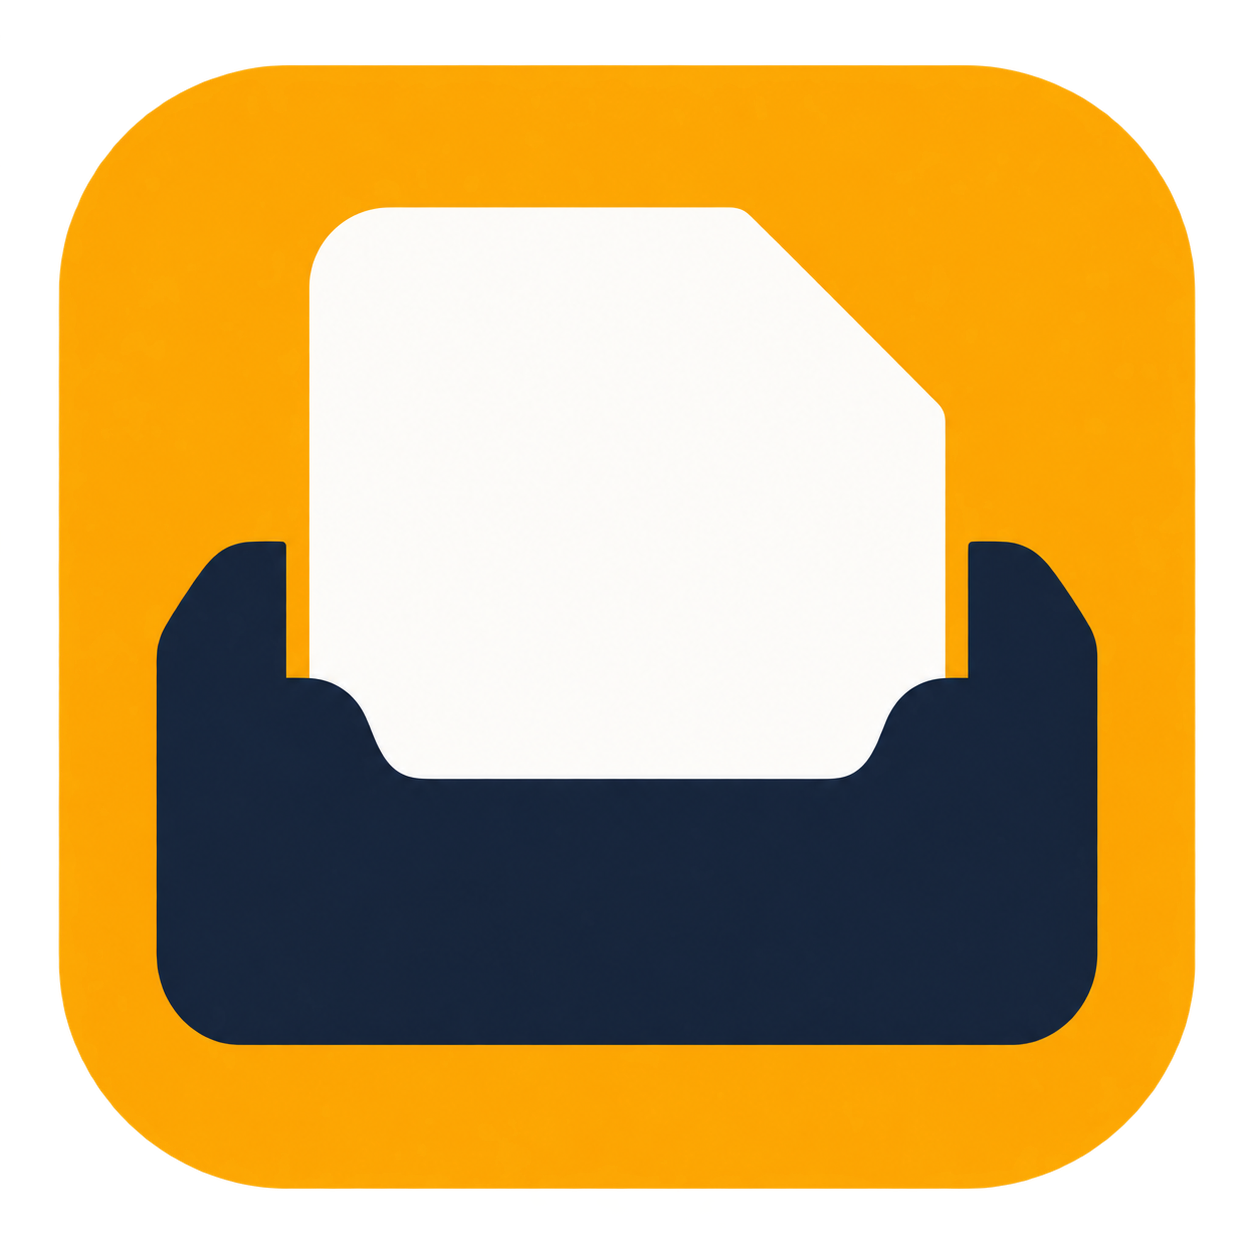
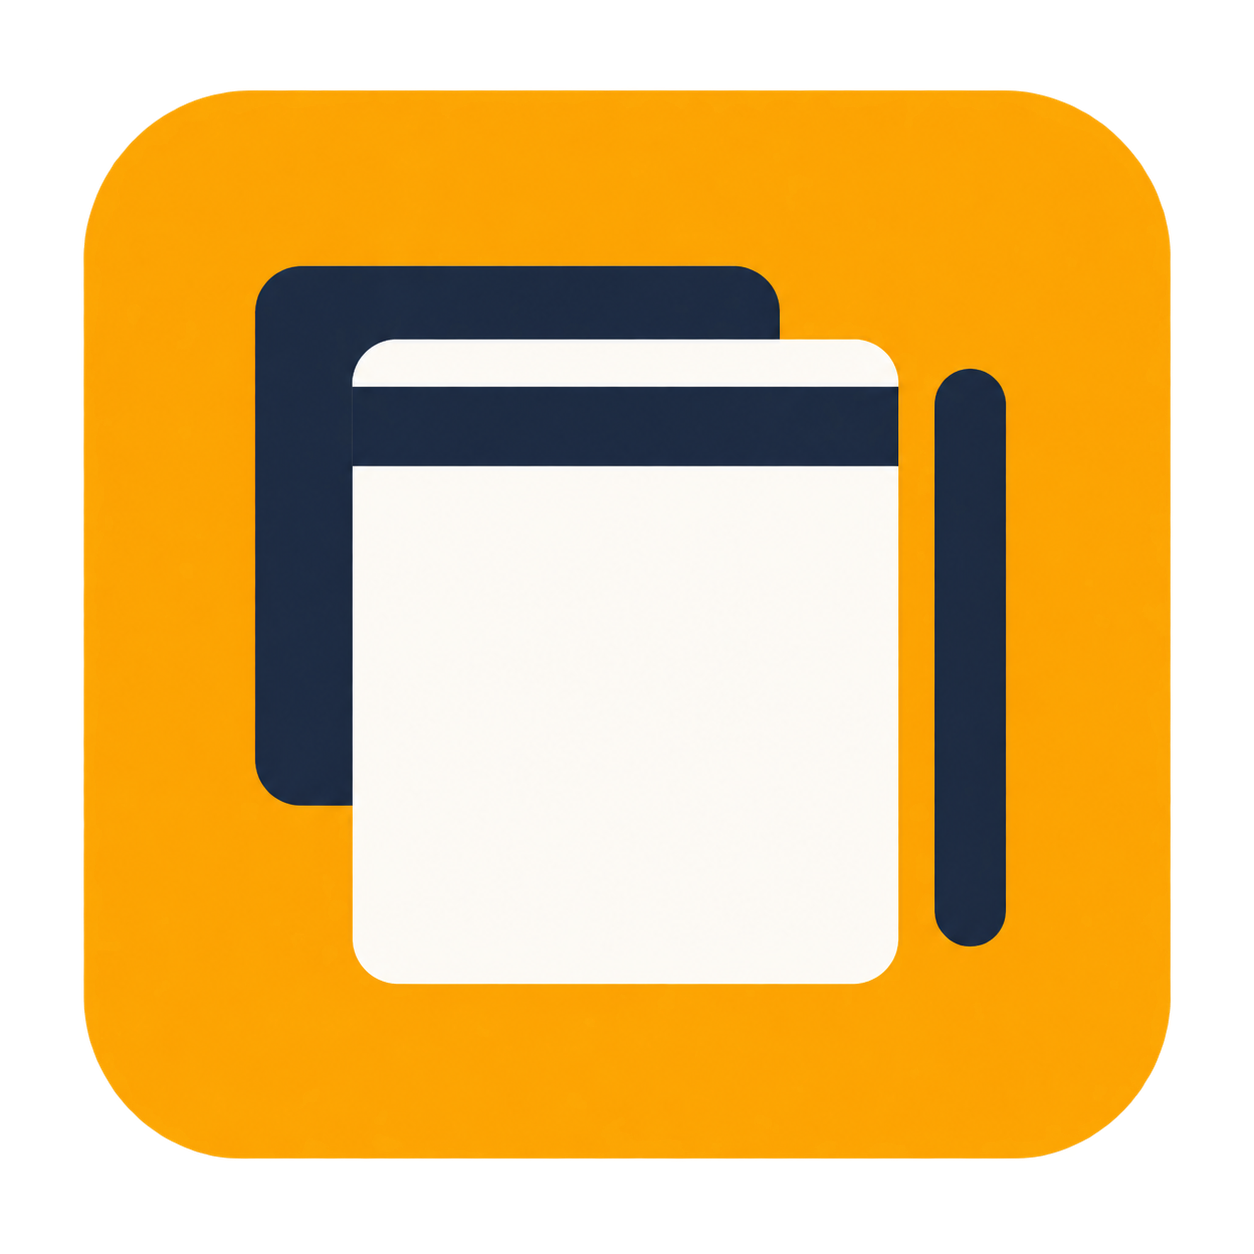
chore: release StaySide 1.73.0
Make suspended-tab system notifications optional, request or revoke permission from settings, and retain toolbar badge feedback without notification access. Refresh the approved browser-window and side-panel icon across runtime assets and document the permission behavior.

Validation: reused the linked conversation results for typecheck, suspended-tab regression, 12 browser scenarios, production/store builds, and icon asset checks. Rebuilt the 1.73.0 production ZIP and passed release:check (46 files) and git diff --check without rerunning full regression. Native permission prompts, retained grants on upgrade, and system notification display remain for existing Chrome/Edge acceptance.

diff --git a/tests/suspended-tabs.test.js b/tests/suspended-tabs.test.js
@@ -64,6 +64,8 @@ function worker() {
   const menus = [];
   const commands = [];
   const notifications = [];
+  const notificationAttempts = [];
+  const permissionRequests = [];
   const badges = [];
   const tabs = [clone(frozen)];
   const injections = [];
@@ -74,6 +76,8 @@ function worker() {
   let failCreate = false;
   let failItemWrite = false;
   let failNotification = false;
+  let notificationPermission = true;
+  let failPermissionCheck = false;
   const event = () => ({ addListener() {} });
   const chrome = {
     storage: { local: storage(local), session: storage(session), onChanged: event() },
@@ -90,7 +94,16 @@ function worker() {
     },
     action: { async setBadgeText({ text }) { badges.push(text); }, async setBadgeBackgroundColor() {}, async setTitle() {} },
     commands: { onCommand: { addListener(fn) { commands.push(fn); } } },
+    permissions: {
+      async contains(request) {
+        assert.deepEqual(clone(request), { permissions: ["notifications"] });
+        if (failPermissionCheck) throw new Error("PERMISSION_CHECK_FAILED");
+        return notificationPermission;
+      },
+      async request(request) { permissionRequests.push(clone(request)); return false; }
+    },
     notifications: { async create(id, options) {
+      notificationAttempts.push({ id, ...clone(options) });
       if (failNotification) throw new Error("NOTIFICATIONS_DISABLED");
       notifications.push({ id, ...clone(options) });
       return id;
@@ -118,10 +131,12 @@ function worker() {
     }
     reject(new Error(`UNHANDLED: ${message.type}`));
   });
-  return { ctx, local, session, tabs, injections, created, updates, fetches, send, menus, commands, notifications, badges,
+  return { ctx, local, session, tabs, injections, created, updates, fetches, send, menus, commands, notifications, notificationAttempts, permissionRequests, badges,
     offline() { fetchMode = "fail"; }, failCreate() { failCreate = true; },
     failWrites() { failItemWrite = true; }, allowWrites() { failItemWrite = false; },
-    disableNotifications() { failNotification = true; } };
+    disableNotifications() { failNotification = true; },
+    setNotificationPermission(granted) { notificationPermission = granted; },
+    failPermissionCheck() { failPermissionCheck = true; } };
 }
 
 async function until(check, label) {
@@ -243,7 +258,8 @@ async function until(check, label) {
   assert.equal(routes.updates.length, 0, "收集路由网址不改变任何标签页");
 
   const manifest = JSON.parse(readFileSync(path.resolve(__dirname, "../manifest.json"), "utf8"));
-  assert.ok(manifest.permissions.includes("notifications"), "构建清单声明系统通知权限");
+  assert.ok(!manifest.permissions.includes("notifications"), "系统通知不再是安装必需权限");
+  assert.ok(manifest.optional_permissions.includes("notifications"), "构建清单声明可选系统通知权限");
   assert.ok(readFileSync(sourcePath("icon128.png")).length, "系统通知图标存在");
 
   for (const language of ["zh-CN", "en"]) {
@@ -295,6 +311,31 @@ async function until(check, label) {
     assert.match(feedback.notifications.at(-1).message, /操作失败：.*SAVE_FAILED/);
     assert.equal(feedback.badges.at(-1), "!");
   }
+
+  const ungranted = worker();
+  ungranted.setNotificationPermission(false);
+  assert.equal((await ungranted.send({ type: "QUICK_SAVE_TAB", tabId: 1 })).ok, true);
+  assert.equal(ungranted.local.laterOnItems.length, 1, "未授权仍成功收藏");
+  assert.equal(ungranted.badges.at(-1), "✓");
+  ungranted.tabs[0].url = frozenUrl("https://example.com/ungranted-failure");
+  ungranted.failWrites();
+  assert.equal((await ungranted.send({ type: "QUICK_SAVE_TAB", tabId: 1 })).ok, false);
+  assert.equal(ungranted.badges.at(-1), "!");
+  assert.equal(ungranted.notificationAttempts.length, 0, "未授权不调用通知 API");
+  assert.equal(ungranted.permissionRequests.length, 0, "收藏过程中不弹出授权请求");
+  ungranted.allowWrites();
+  ungranted.setNotificationPermission(true);
+  assert.equal((await ungranted.send({ type: "QUICK_SAVE_TAB", tabId: 1 })).ok, true);
+  assert.equal(ungranted.notifications.length, 1, "授权后下一次收藏立即使用系统通知");
+  ungranted.setNotificationPermission(false);
+  assert.equal((await ungranted.send({ type: "QUICK_SAVE_TAB", tabId: 1 })).duplicated, true);
+  assert.equal(ungranted.notificationAttempts.length, 1, "撤销权限后不使用缓存授权发送通知");
+
+  const checkFailure = worker();
+  checkFailure.failPermissionCheck();
+  assert.equal((await checkFailure.send({ type: "QUICK_SAVE_TAB", tabId: 1 })).ok, true);
+  assert.equal(checkFailure.badges.at(-1), "✓", "权限查询异常时仍成功收藏并保留角标");
+  assert.equal(checkFailure.notificationAttempts.length, 0);
 
   const disabled = worker();
   await disabled.ctx.backgroundTest.ensureLegacyCleanup();

diff --git a/wxt/entrypoints/settings/NotificationSetting.vue b/wxt/entrypoints/settings/NotificationSetting.vue
@@ -1,0 +1,80 @@
+<script setup lang="ts">
+import { onMounted, onUnmounted, ref } from "vue";
+import { SwitchRoot, SwitchThumb } from "reka-ui";
+import { browser } from "wxt/browser";
+import { t } from "../../../src/shared/i18n";
+import type { Browser } from "wxt/browser";
+
+const enabled = ref(false);
+const loaded = ref(false);
+const busy = ref(false);
+const error = ref<"load" | "denied" | "change" | null>(null);
+const permission: Browser.permissions.Permissions = { permissions: ["notifications"] };
+let alive = true, generation = 0;
+
+async function refresh(): Promise<void> {
+  const token = ++generation;
+  try {
+    const granted = await browser.permissions.contains(permission);
+    if (!alive || token !== generation) return;
+    enabled.value = granted;
+    loaded.value = true;
+    if (error.value === "load" || (granted && error.value === "denied")) error.value = null;
+  } catch {
+    if (!alive || token !== generation) return;
+    loaded.value = false;
+    error.value = "load";
+  }
+}
+async function change(value: boolean): Promise<void> {
+  if (!loaded.value || busy.value || value === enabled.value) return;
+  busy.value = true;
+  error.value = null;
+  generation += 1;
+  try {
+    // Request before any await so the browser retains the user's click gesture.
+    const accepted = await (value ? browser.permissions.request(permission) : browser.permissions.remove(permission));
+    if (!alive) return;
+    if (!accepted) error.value = value ? "denied" : "change";
+  } catch {
+    if (alive) error.value = "change";
+  } finally {
+    if (alive) {
+      await refresh();
+      busy.value = false;
+    }
+  }
+}
+function refreshWhenIdle(): void { if (!busy.value) void refresh(); }
+function permissionsChanged(change: { readonly permissions?: readonly string[] }): void {
+  if (!change.permissions?.includes("notifications")) return;
+  error.value = null;
+  void refresh();
+}
+
+onMounted(() => {
+  browser.permissions.onAdded.addListener(permissionsChanged);
+  browser.permissions.onRemoved.addListener(permissionsChanged);
+  window.addEventListener("focus", refreshWhenIdle);
+  void refresh();
+});
+onUnmounted(() => {
+  alive = false;
+  generation += 1;
+  browser.permissions.onAdded.removeListener(permissionsChanged);
+  browser.permissions.onRemoved.removeListener(permissionsChanged);
+  window.removeEventListener("focus", refreshWhenIdle);
+});
+</script>
+
+<template>
+  <div class="setting-row">
+    <div class="setting-label">
+      <strong id="notificationsLabel">{{ t('saveNotifications') }}</strong>
+      <span id="notificationsHint">{{ t('saveNotificationsHint') }}</span>
+      <span v-if="error" id="notificationsError" role="alert">{{ t(error === 'load' ? 'notificationsLoadFailed' : error === 'denied' ? 'notificationsDenied' : 'notificationsChangeFailed') }}</span>
+      <button v-if="error === 'load'" class="setting-action" type="button" @click="refresh">{{ t('retry') }}</button>
+    </div>
+    <SwitchRoot class="switch" data-setting="saveNotifications" aria-labelledby="notificationsLabel" :aria-describedby="error ? 'notificationsHint notificationsError' : 'notificationsHint'" :aria-busy="busy" :model-value="enabled" :disabled="!loaded || busy" @update:model-value="change"><SwitchThumb class="slider" /></SwitchRoot>
+  </div>
+</template>

diff --git a/src/shared/i18n-runtime.ts b/src/shared/i18n-runtime.ts
@@ -33,6 +33,11 @@ export const dictionaries: Readonly<Record<Language, Readonly<Record<string, str
     askSingle: "添加当前网页前，先选项目", askBatch: "添加所有标签前，先选项目", autoClean: "已读网页自动清除",
     askSingleHint: "默认关闭；打开后，按快捷键或右键添加当前网页时会先弹窗选择项目",
     askBatchHint: "按快捷键添加整窗标签时先弹窗让你挑项目；关掉后直接用上次用过的项目",
+    saveNotifications: "冻结页收藏通知",
+    saveNotificationsHint: "收藏 TMS 等冻结页时显示系统通知；关闭时使用工具栏角标。",
+    notificationsLoadFailed: "无法读取通知权限，请重试。",
+    notificationsDenied: "未授予通知权限，将继续使用工具栏角标。",
+    notificationsChangeFailed: "未能更改通知权限，请重试。",
     autoCleanPolicyHint: "默认开启，归档项目中的已读网页也按期限清理。关闭后永久保留已读网页，保留原来的天数设置。",
     autoCleanHint: "从标为已读那天算起，最短 30 天、最长 180 天，默认 30 天。关闭自动清除时不生效。",
     autoCleanResumeHint: "重新开启前会先提示确认；确认后按原来的已读时间清理已到期网页，并继续自动清理。",
@@ -195,6 +200,11 @@ export const dictionaries: Readonly<Record<Language, Readonly<Record<string, str
     askSingle: "Choose a project before adding the current page", askBatch: "Choose a project before adding all tabs", autoClean: "Automatically remove read pages",
     askSingleHint: "Off by default. Turn it on to choose a project before adding a page by shortcut or right-click.",
     askBatchHint: "Adding all tabs in the window first asks which project to use; turn it off to reuse the last chosen project",
+    saveNotifications: "Save notifications for suspended tabs",
+    saveNotificationsHint: "Show system notifications when saving suspended tabs, such as TMS. When off, use toolbar badges.",
+    notificationsLoadFailed: "Unable to read notification permission. Please retry.",
+    notificationsDenied: "Notification permission was not granted. Toolbar badges will still be used.",
+    notificationsChangeFailed: "Unable to change notification permission. Please retry.",
     autoCleanPolicyHint: "On by default, including read pages in archived projects. Turn off to keep read pages indefinitely and remember the current number of days.",
     autoCleanHint: "Counted from the day a page was marked read: 30–180 days, 30 by default. Does not apply when automatic removal is off.",
     autoCleanResumeHint: "Turning this back on asks for confirmation before removing expired pages using their original read date and resuming automatic removal.",

diff --git a/wxt/entrypoints/settings/App.vue b/wxt/entrypoints/settings/App.vue
@@ -9,6 +9,7 @@ import { useDialog } from "./useDialog";
 import BackupPanel from "./BackupPanel.vue";
 import StorageUsagePanel from "./StorageUsagePanel.vue";
 import ShortcutsPanel from "./ShortcutsPanel.vue";
+import NotificationSetting from "./NotificationSetting.vue";
 import DiagnosticsPanel from "./DiagnosticsPanel.vue";
 import WipePanel from "./WipePanel.vue";
 import SettingsDialog from "./SettingsDialog.vue";
@@ -158,6 +159,7 @@ onUnmounted(() => { window.removeEventListener("hashchange", restoreTab); });
                 <div class="setting-label"><strong id="batchLabel">{{ t('askBatch') }}</strong><span id="batchHint">{{ t('askBatchHint') }}</span></div>
                 <SwitchRoot class="switch" data-setting="askFolderOnBatch" aria-labelledby="batchLabel" aria-describedby="batchHint" :model-value="current.askFolderOnBatch" :disabled="saving" @update:model-value="changeBatch"><SwitchThumb class="slider" /></SwitchRoot>
               </div>
+              <NotificationSetting />
             </section>
             <ShortcutsPanel :dialog="dialog" />
             <section class="settings-group">

diff --git a/src/background/feedback.ts b/src/background/feedback.ts
@@ -100,12 +100,13 @@ async function reportFailure(error: unknown, targetTab: BackgroundTab | null = n
 // 冻结页属于其他扩展，不能注入药丸；通知失败也不能改变已经完成的收藏结果。
 async function showSystemNotice(text: string): Promise<void> {
   try {
+    if (!await chrome.permissions.contains({ permissions: ["notifications"] })) return;
     await chrome.notifications?.create?.("lateron-save-result", {
       type: "basic", title: "StaySide", message: text,
       iconUrl: chrome.runtime.getURL("icon128.png"), silent: true
     });
   } catch {
-    // 通知被禁用或接口不可用时，保留调用方已经显示的工具栏角标。
+    // 权限被撤销、通知被禁用或接口不可用时，保留调用方已经显示的工具栏角标。
   }
 }
 

diff --git a/assets/brand/README.md b/assets/brand/README.md
@@ -1,12 +1,12 @@
 # StaySide 品牌资源
 
-应用名为 **StaySide**。图标采用琥珀橙底、深色收纳槽与单张白色网页卡片，表达收集网页并按项目整理；以暖色和粗轮廓提高小尺寸菜单中的辨识度。
+应用名为 **StaySide**。图标采用琥珀橙底、叠放的网页窗口与右侧竖栏，表达收集网页并留在侧栏随手使用；以暖色和简洁轮廓保持小尺寸菜单中的辨识度。
 
-- [图标母版](stayside-icon.png)：用户确认的暖色简化版，使用内置 imagegen 生成；透明背景 PNG。
+- [图标母版](stayside-icon.png)：用户确认的网页窗口与侧栏版本，使用内置 imagegen 生成；透明背景 PNG。
 - [生成提示词](stayside-icon-prompt.txt)：记录母版的生成要求。
 - 运行时图标为 `wxt/public/icon16.png`、`icon32.png`、`icon48.png`、`icon128.png`；由母版等比缩小，保留透明度，不另加文字、阴影或装饰。
 - `wxt/public/article-cover-placeholder.png` 为同一母版的 512px 版本，供网页和项目缺少封面、当前网页缺少缩略图时使用。
 
-四个尺寸同时更新，并检查 16px 工具栏尺寸在浅色和深色背景下的轮廓。母版不放入 `wxt/public`，避免作为未使用资源进入安装包。
+四个图标尺寸与 512px 占位图同时更新，使用 PowerShell 7 调用 `System.Drawing`，以 `HighQualityBicubic` 插值、`HighQuality` 像素偏移和 `SourceCopy` 合成模式导出 32 位 ARGB PNG，保留透明度。检查 16px 工具栏尺寸在浅色和深色背景下的轮廓。母版不放入 `wxt/public`，避免作为未使用资源进入安装包。
 
 界面强调色统一维护在 [accent-vars.css](../../src/styles/accent-vars.css)：亮琥珀按钮使用深色文字，浅深色主题分别提供文字和选中背景，红色与绿色分别用于危险操作和成功反馈。页面背景与正文颜色维护在 [theme-vars.css](../../src/styles/theme-vars.css)。

diff --git a/tests/browser/README.md b/tests/browser/README.md
@@ -57,6 +57,7 @@ Remove-Item Env:PANEL_TEST_ORDER
 | [ui-modules.spec.cjs](ui-modules.spec.cjs) | 国际化、引导、图片上传 / 焦点、编辑器按需加载与样式失败重试 |
 | [storage-usage.spec.cjs](storage-usage.spec.cjs) | 设置页实际存储用量、内嵌图片分类、手动刷新、读取失败恢复及读取期间的数据变化 |
 | [settings-tabs.spec.cjs](settings-tabs.spec.cjs) | 中英文设置分层、键盘切换和面板链接、存储按需读取、诊断展开轮询 / 停止 / 迟到结果及重试，以及切换期间导入导出继续完成或失败重试、选项保留和操作锁 |
+| [notification-permissions.spec.cjs](notification-permissions.spec.cjs) | 真实新安装的通知权限与中英文设置展示；在浏览器授权 API 边界控制拒绝、授权、撤销、异常和迟到结果，验证点击 / 键盘操作、状态同步及失败重试，原生授权弹窗与系统通知展示仍需既有浏览器验收 |
 | [icon-storage.spec.cjs](icon-storage.spec.cjs) | 两页图标迁移、实际 PNG 显示及字节减量、无广播命令响应、初始化广播竞态、侧栏共享图标缓存，以及中英文图标详情的按需读取、分页、折叠丢弃迟到结果、预览、引用数、缺失提示和只读刷新 / 重试 |
 | [content-injections.spec.cjs](content-injections.spec.cjs) | 元数据、阅读恢复及 MAIN world 翻译，网络 / Translator API 是可控外部边界 |
 

diff --git a/docs/roadmap.md b/docs/roadmap.md
@@ -10,7 +10,7 @@
 - 确认 StaySide 名称、新图标辨识度与浅深色界面的选中、焦点、删除和成功状态。
 - 验证当前网页保存、快速打开、四档排序、编辑 / 删除、拖拽和阅读位置。
 - 在既有收藏数据中核对“设置 → 数据与维护 → 存储占用”的收藏数、项目数、内嵌图片分类及手动刷新；验收新设置分层的面板切换、备份选项保留、自动清理及诊断展开行为。
-- 验证正式侧栏外壳、跨窗口、展开完整界面和冻结页系统通知 / 角标回退。
+- 验证正式侧栏外壳、跨窗口、展开完整界面和冻结页系统通知 / 角标回退；可选通知需在既有 Chrome / Edge 中验收真实授权弹窗、旧版本授权保留及系统通知展示。
 - 同名 Release 的重复发布保护仍待远端验收。
 
 上述验收覆盖 ITER-008、014、016–020、022–023 的剩余浏览器 / 发布边界，不再分别要求验收历史旧版本。内嵌网站图标去重已实现并部署，待既有浏览器配置验收（ITER-024）；保留翻译，观察 The Marvellous Suspender 日常适配。

diff --git a/CHANGELOG.md b/CHANGELOG.md
@@ -10,6 +10,11 @@
 
 ## 未发布
 
+## 1.73.0 — 2026-10-31
+
+- 系统通知改为可选权限，可在「常规设置 → 收藏」开启「冻结页收藏通知」时授权、关闭时撤销；已有授权继续有效，未授权或通知不可用时保留工具栏角标，不影响收藏。
+- 更新 StaySide 图标，采用叠放的网页窗口与侧栏符号，减轻原有托盘造型的厚重感；同步工具栏各尺寸图标、页面品牌标识及缺省封面。
+
 ## 1.72.0 — 2026-10-30
 
 - 设置页分为「常规设置」与「数据与维护」，自动清理、备份、存储占用和运行诊断集中到维护面板，清空数据独立置底；支持面板链接及刷新恢复。存储统计进入维护面板才读取，诊断仅在展开时刷新，切换面板保留备份选项且不中断进行中的操作。
